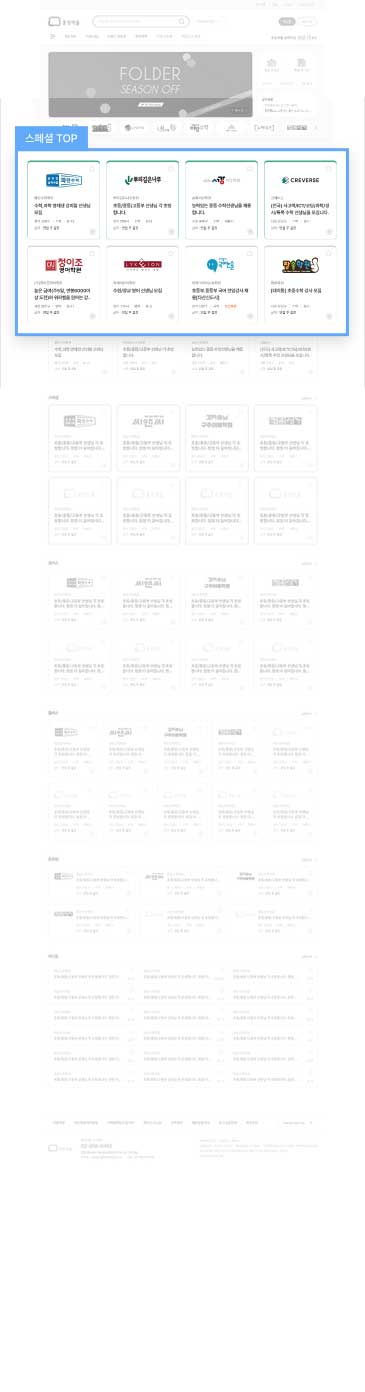
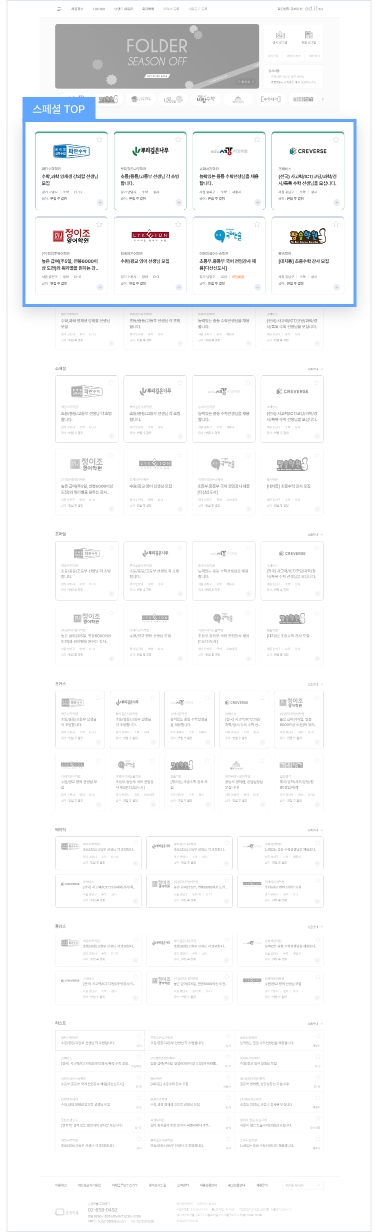
상품 썸네일 작업

diff --git a/hunjang-project/home/css/academy-service.css b/hunjang-project/home/css/academy-service.css
@@ -402,7 +402,7 @@
  .pay-Info-Wrap .h-bullet-01 { line-height:22px; }
  .pay-Info-Wrap .h-bullet-01 li { text-indent:-10px; padding-left:10px; }
  .pay-Info-Wrap .h-bullet-01 li:before { content:"ㆍ"; }
- .pay-Info-Wrap .payDeadline { width:100%; border:1px solid #ECECEC; border-radius:10px; font-size:var(--text-subtitle2); line-height:19px; padding:25px 0; text-align:center; color:7e7e7e; margin-bottom:30px; }
+ .pay-Info-Wrap .payDeadline {width:100%; border:1px solid #ECECEC; border-radius:10px; font-size:var(--text-subtitle2); line-height:19px; padding:25px 0; text-align:center; color:7e7e7e; margin-bottom:30px; }
  .pay-Info-Wrap .card-setting { background:#61A6FF; border-radius:10px; width:380px; text-align:center; padding:35px 0 26px; margin-top:10px; }
  .pay-Info-Wrap .card-setting img { margin-bottom:15px; }
  .pay-Info-Wrap .card-setting .h-tit-16 { color:#fff; margin-bottom:10px; }
@@ -1360,17 +1360,17 @@
     .rcrt-adv-Listbox .exposureArea .pcnmobileTAB input[type="radio"]:nth-of-type(2):checked ~ .previewBox .tabbox-mobile {display:block;}
         /*노출위치 미리보기 이미지세팅*/
         .rcrt-adv-Listbox .exposureArea .pcnmobileTAB .previewBox.adProduct1_1 .tabbox-pc {background:url(../images/product_screenshot/pc/screenshot_main01_1.jpg); background-position-y:0;}
-        .rcrt-adv-Listbox .exposureArea .pcnmobileTAB .previewBox.adProduct1_2 .tabbox-pc {background:url(../images/product_screenshot/pc/screenshot_main01_2.jpg); background-position-y:-518px;}
-        .rcrt-adv-Listbox .exposureArea .pcnmobileTAB .previewBox.adProduct1_3 .tabbox-pc {background:url(../images/product_screenshot/pc/screenshot_main01_3.jpg); background-position-y:0;}
-        .rcrt-adv-Listbox .exposureArea .pcnmobileTAB .previewBox.adProduct1_4 .tabbox-pc {background:url(../images/product_screenshot/pc/screenshot_main01_4.jpg); background-position-y:0;}
-        .rcrt-adv-Listbox .exposureArea .pcnmobileTAB .previewBox.adProduct1_5 .tabbox-pc {background:url(../images/product_screenshot/pc/screenshot_main01_5.jpg); background-position-y:0;}
-        .rcrt-adv-Listbox .exposureArea .pcnmobileTAB .previewBox.adProduct1_6 .tabbox-pc {background:url(../images/product_screenshot/pc/screenshot_main01_6.jpg); background-position-y:0;}
-        .rcrt-adv-Listbox .exposureArea .pcnmobileTAB .previewBox.adProduct1_7 .tabbox-pc {background:url(../images/product_screenshot/pc/screenshot_main01_7.jpg); background-position-y:0;}
+        .rcrt-adv-Listbox .exposureArea .pcnmobileTAB .previewBox.adProduct1_2 .tabbox-pc {background:url(../images/product_screenshot/pc/screenshot_main01_2.jpg); background-position-y:-230px;}
+        .rcrt-adv-Listbox .exposureArea .pcnmobileTAB .previewBox.adProduct1_3 .tabbox-pc {background:url(../images/product_screenshot/pc/screenshot_main01_3.jpg); background-position-y:-412px;}
+        .rcrt-adv-Listbox .exposureArea .pcnmobileTAB .previewBox.adProduct1_4 .tabbox-pc {background:url(../images/product_screenshot/pc/screenshot_main01_4.jpg); background-position-y:-515px;}
+        .rcrt-adv-Listbox .exposureArea .pcnmobileTAB .previewBox.adProduct1_5 .tabbox-pc {background:url(../images/product_screenshot/pc/screenshot_main01_5.jpg); background-position-y:-707px;}
+        .rcrt-adv-Listbox .exposureArea .pcnmobileTAB .previewBox.adProduct1_6 .tabbox-pc {background:url(../images/product_screenshot/pc/screenshot_main01_6.jpg); background-position-y:-780px;}
+        .rcrt-adv-Listbox .exposureArea .pcnmobileTAB .previewBox.adProduct1_7 .tabbox-pc {background:url(../images/product_screenshot/pc/screenshot_main01_7.jpg); background-position-y:-829px;}
 
         .rcrt-adv-Listbox .exposureArea .pcnmobileTAB .previewBox.adProduct2_1 .tabbox-pc {background:url(../images/product_screenshot/pc/screenshot_main02_1.jpg); background-position-y:0;}
-        .rcrt-adv-Listbox .exposureArea .pcnmobileTAB .previewBox.adProduct2_2 .tabbox-pc {background:url(../images/product_screenshot/pc/screenshot_main02_2.jpg); background-position-y:0;}
-        .rcrt-adv-Listbox .exposureArea .pcnmobileTAB .previewBox.adProduct2_3 .tabbox-pc {background:url(../images/product_screenshot/pc/screenshot_main02_3.jpg); background-position-y:0;}
-        .rcrt-adv-Listbox .exposureArea .pcnmobileTAB .previewBox.adProduct2_4 .tabbox-pc {background:url(../images/product_screenshot/pc/screenshot_main02_4.jpg); background-position-y:0;}
+        .rcrt-adv-Listbox .exposureArea .pcnmobileTAB .previewBox.adProduct2_2 .tabbox-pc {background:url(../images/product_screenshot/pc/screenshot_main02_2.jpg); background-position-y:-150px;}
+        .rcrt-adv-Listbox .exposureArea .pcnmobileTAB .previewBox.adProduct2_3 .tabbox-pc {background:url(../images/product_screenshot/pc/screenshot_main02_3.jpg); background-position-y:-9px;}
+        .rcrt-adv-Listbox .exposureArea .pcnmobileTAB .previewBox.adProduct2_4 .tabbox-pc {background:url(../images/product_screenshot/pc/screenshot_main02_4.jpg); background-position-y:-165px;}
 
         .rcrt-adv-Listbox .exposureArea .pcnmobileTAB .previewBox.adProduct3_1 .tabbox-pc {background:url(../images/product_screenshot/pc/screenshot_main03_1.jpg); background-position-y:0;}
         .rcrt-adv-Listbox .exposureArea .pcnmobileTAB .previewBox.adProduct3_2 .tabbox-pc {background:url(../images/product_screenshot/pc/screenshot_main03_2.jpg); background-position-y:0;}
@@ -1381,7 +1381,7 @@
 
 
         .rcrt-adv-Listbox .exposureArea .pcnmobileTAB .previewBox.adProduct1_1 .tabbox-mobile {background:url(../images/product_screenshot/mobile/screenshot_main01_1.jpg); background-position-y:0;}
-        .rcrt-adv-Listbox .exposureArea .pcnmobileTAB .previewBox.adProduct1_2 .tabbox-mobile {background:url(../images/product_screenshot/mobile/screenshot_main01_2.jpg); background-position-y:}
+        .rcrt-adv-Listbox .exposureArea .pcnmobileTAB .previewBox.adProduct1_2 .tabbox-mobile {background:url(../images/product_screenshot/mobile/screenshot_main01_2.jpg); background-position-y:0;}
         .rcrt-adv-Listbox .exposureArea .pcnmobileTAB .previewBox.adProduct1_3 .tabbox-mobile {background:url(../images/product_screenshot/mobile/screenshot_main01_3.jpg); background-position-y:0;}
         .rcrt-adv-Listbox .exposureArea .pcnmobileTAB .previewBox.adProduct1_4 .tabbox-mobile {background:url(../images/product_screenshot/mobile/screenshot_main01_4.jpg); background-position-y:0;}
         .rcrt-adv-Listbox .exposureArea .pcnmobileTAB .previewBox.adProduct1_5 .tabbox-mobile {background:url(../images/product_screenshot/mobile/screenshot_main01_5.jpg); background-position-y:0;}
@@ -1545,7 +1545,7 @@
 .h-teacher-main .bottom-bnrBlock .bnrBox.greenbox {background: #43A986;}
 .h-teacher-main .bottom-bnrBlock .bnrBox.greybox {background: #62666B; margin-right:0;}
 .h-teacher-main .bottom-bnrBlock .bnrBox .bnrTit { font-size: 22px; color: #FFFFFF; padding-bottom: 15px; display: block;}
-.h-teacher-main .bottom-bnrBlock .bnrBox .flex {flex-grow:1;flex-direction:column; justify-content: space-between; align-items:right;}
+.h-teacher-main .bottom-bnrBlock .bnrBox .flex {flex-grow:1;flex-direction:column; justify-content: space-between;}
 .h-teacher-main .bottom-bnrBlock .bnrBox .flex p {font-size: 14px; color: #FFFFFF; line-height: 22px;}
 .h-teacher-main .bottom-bnrBlock .bnrBox .flex p strong { color: #FFEE00; font-weight: 500;}
 .h-teacher-main .bottom-bnrBlock .bnrBox img {width:42px;}

diff --git a/hunjang-project/home/html/Academy/recruit/(L)Interview-message_이력서 메세지전송_미리보기(popup).html b/hunjang-project/home/html/Academy/recruit/(L)Interview-message_이력서 메세지전송_미리보기(popup).html
@@ -1,0 +1,88 @@
+<!DOCTYPE html>
+<html lang="en" dir="ltr">
+
+<head>
+  <meta charset="utf-8">
+  <title></title>
+  <link rel="stylesheet" href="../../../css/font.css">
+  <link rel="stylesheet" href="../../../css/common.css">
+  <link rel="stylesheet" href="../../../css/styleGuide.css">
+  <link rel="stylesheet" href="../../../css/layout.css">
+  <link rel="stylesheet" href="../../../css/popup.css">
+  
+  <link rel="stylesheet" href="https://stackpath.bootstrapcdn.com/font-awesome/4.7.0/css/font-awesome.min.css" type="text/css">
+  <link rel="stylesheet"href="https://fonts.googleapis.com/css?family=Material+Icons|Material+Icons+Outlined|Material+Icons+Two+Tone|Material+Icons+Round|Material+Icons+Sharp">
+  <link rel="stylesheet" href="https://fonts.googleapis.com/css2?family=Material+Symbols+Outlined:opsz,wght,FILL,GRAD@20..48,100..700,0..1,-50..200" />
+
+  <script src="https://code.jquery.com/jquery-1.12.4.min.js" integrity="sha256-ZosEbRLbNQzLpnKIkEdrPv7lOy9C27hHQ+Xp8a4MxAQ=" crossorigin="anonymous"></script>
+</head>
+
+<body>
+
+<!-- 윈도우팝업 크기 740px -->
+
+
+
+<div class="h-winpop-wrap bg-white">
+  <div class="hunjang-wrap interview-messagePOP2">
+
+    <!-- container -->
+    <div class="container">
+      <!-- contents -->
+      <div class="content">
+
+        <div class="btnbox flex flex-between flex-start">
+          <div>
+            <h2 class="text-h2 pt5 mb30">면접 메시지 미리보기</h2>
+          </div>
+          <button type="button" class="close" title="팝업 닫기">
+            <img src="../../../images/close_btn.svg" alt="팝업 닫기">
+          </button>
+        </div>
+
+
+        <div class="h-tab-Contents-02">
+          <input type="radio" id="tabBtn02_1" name="tab02" checked="" />
+          <label for="tabBtn02_1">이메일 발송</label>
+          <input type="radio" id="tabBtn02_2" name="tab02" />
+          <label for="tabBtn02_2">알림톡(문자) 발송</label>
+
+          <div class="tabCo-Wrap">
+            <!-- 01-면접 메시지 전송 탭 -->
+            <div class="tabCo-CommonBox">
+              
+              <a href="https://xd.adobe.com/view/85a3bc77-d270-418c-a0bf-7b2da599e1f5-d0f0/screen/5fbcc6ac-ed17-4849-92f3-229152872aef/" target="_blank">들어갈 메일폼 모습 미리보기 클릭 (디자인XD)</a>
+
+            </div>
+
+            <!-- 02-발송내역 탭 -->
+            <div class="tabCo-CommonBox">
+              222
+            </div>
+          </div>
+        </div>
+
+
+
+
+
+
+      </div>
+      <!-- //contents -->
+    </div>
+    <!-- //container -->
+
+  </div>
+</div>
+
+
+
+
+
+
+
+
+
+</body>
+
+</html>

diff --git a/hunjang-project/home/css/popup.css b/hunjang-project/home/css/popup.css
@@ -662,9 +662,11 @@
 .interview-messagePOP .h-field-wrap > label + input { width:calc(100% - 50px); padding-left: 5px; }
 .interview-messagePOP .h-field-wrap > label + input:focus { outline:none; }
 .interview-messagePOP .no-data { padding:100px 0; border:1px solid #D4DAE2; border-width:1px 0; }
-
-
-
+/*메시지 전송 미리보기팝업*/
+.interview-messagePOP2 {width:740px; margin:-20px auto 0;}
+.interview-messagePOP2 .container {padding:40px; top:0; left:0; background:#fff; width:100%; box-sizing:border-box;}
+.interview-messagePOP2 .h-tab-Contents-02 {align-items:center;}
+.interview-messagePOP2 .h-tab-Contents-02>.tabCo-Wrap .tabCo-CommonBox {padding-top:30px; align-items:center;}
 
 
 
